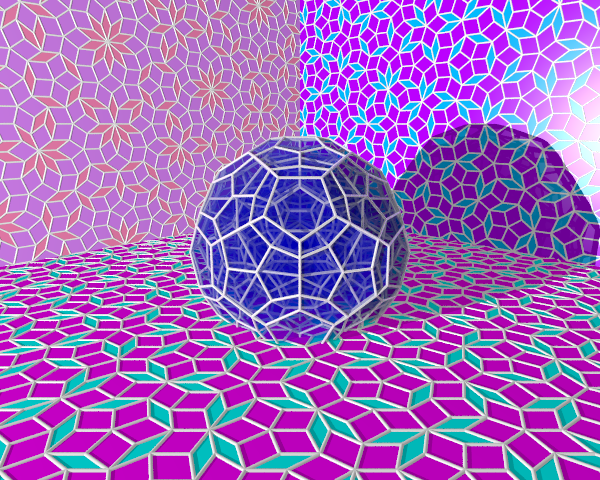
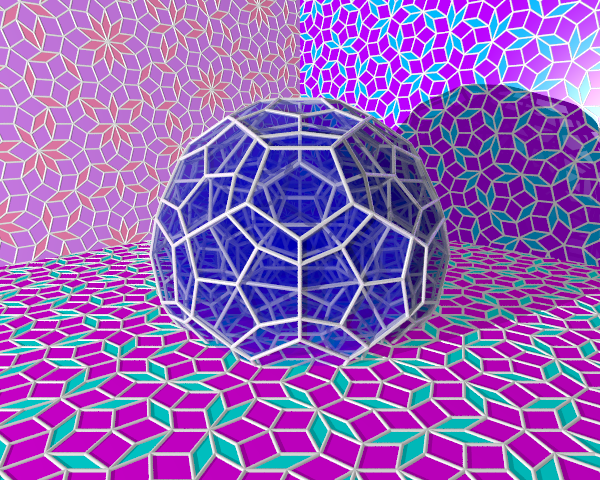
minor change

diff --git a/src/120cell/main.py b/src/120cell/main.py
@@ -59,7 +59,7 @@ floor = Penrose(num_lines= 10,
                 **penrose_config).put_objs('scale', 1.5,
                                            'rotate', (90, 0, 0))
 
-cell_120 = Cell_120(**cell_120_config).put_objs('scale', 1.5,
+cell_120 = Cell_120(**cell_120_config).put_objs('scale', 2,
                                                 'translate',
                                                 (0, -Cell_120.bottom, 0))
 
